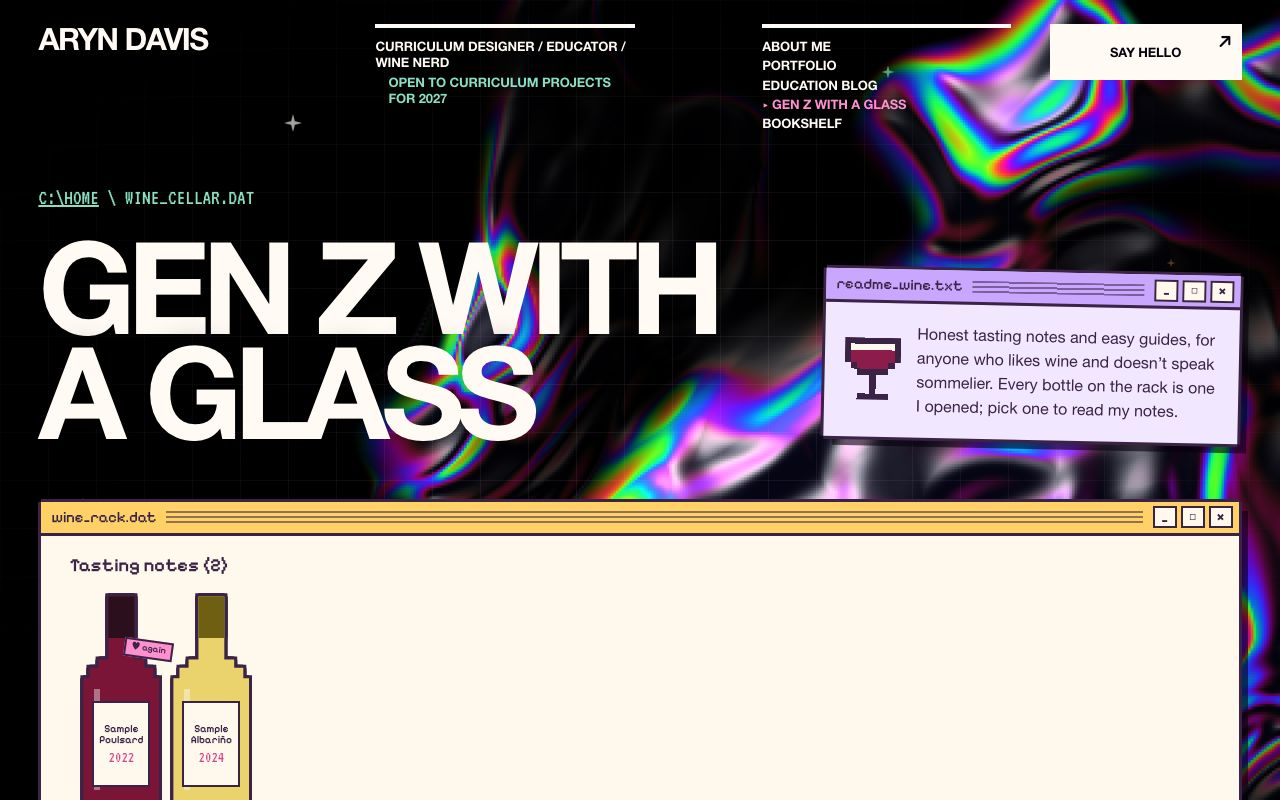
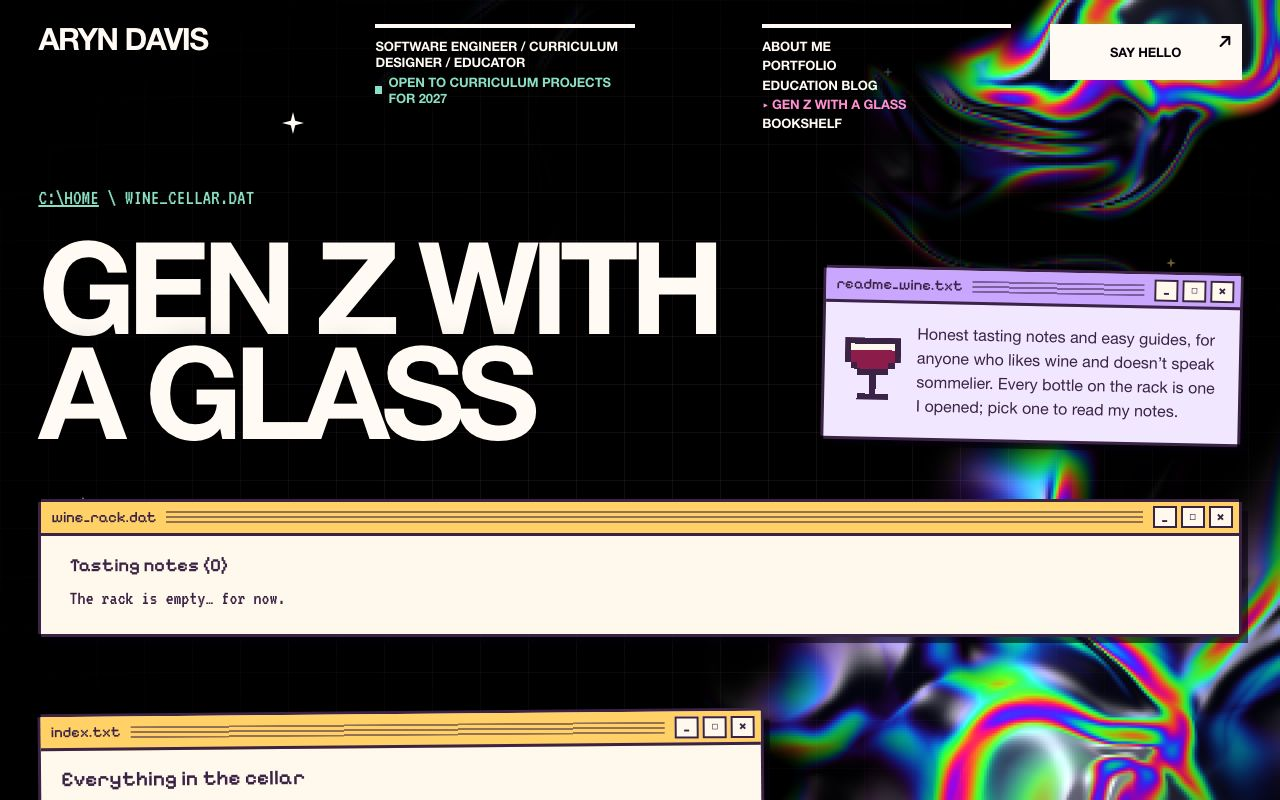
Remove the sample wine posts and sample read/want books
- Gen Z With A Glass starts empty ('The rack is empty… for now'); the
  home folder says 'Nothing here yet' until the first post.
- The bookshelf keeps only what I'm currently reading.
- README: drop the sample tasting-card screenshot and placeholder note;
  retake home, wine and bookshelf screenshots.

diff --git a/src/content/wine.ts b/src/content/wine.ts
@@ -19,64 +19,14 @@ import texted from './wine.texts.json'
 //              pairedWith (what you ate), suggestedPairings (your ideas; made for you if both are left out)
 //   The post:  moment, look, nose, palate, finish, thoughts, and title/summary/tags to override the defaults.
 //
-// Sample notes. Replace these with your own.
-export const handNotes: TastingNote[] = [
-  {
-    wine: 'Sample Poulsard',
-    grape: 'Poulsard',
-    vintage: 2022,
-    date: '2026-09-29',
-    title: 'The bottle that made the whole table lean in',
-    region: 'Jura, France',
-    price: '$$',
-    rating: 4,
-    buyAgain: 'yes',
-    verdict: 'Bright, a little wild, and impossible to stop sipping. Proof that light reds can steal the show.',
-    flavors: 'red currant, rose petal, cranberry, white pepper',
-    sweetness: 'dry',
-    body: 'light',
-    acidity: 'high',
-    tannin: 'low',
-    pairedWith: 'Roast chicken and a loud dinner table',
-    moment: 'A bright, slightly unruly Jura red and a reminder to trust your curiosity. This is a sample tasting note.',
-    look: 'pale ruby',
-    nose: 'red currant, rose petal',
-    palate: 'light, crunchy, a little wild',
-  },
-  {
-    wine: 'Sample Albariño',
-    grape: 'Albariño',
-    vintage: 2024,
-    date: '2026-03-08',
-    title: 'Weeknight white under $20',
-    region: 'Rías Baixas, Spain',
-    price: '$$',
-    rating: 3,
-    buyAgain: 'maybe',
-    verdict: 'Crisp, salty and easy to love for the price.',
-    flavors: 'lemon, green apple, sea salt',
-    sweetness: 'dry',
-    body: 'medium-light',
-    acidity: 'high',
-    moment: 'A crisp, salty white that over-delivers with takeout. This is a sample tasting note.',
-  },
-]
+// Tasting notes written here. (Notes can also be texted in; see textNotes below.)
+export const handNotes: TastingNote[] = []
 
 // GUIDES are recipe cards: explainers, regions, how-tos. Write the body like the other blogs (see types.ts).
-export const guides: WinePost[] = [
-  {
-    kind: 'guide',
-    slug: 'a-beginners-map-of-sparkling-wine',
-    title: 'A beginner’s map of sparkling wine',
-    date: '2026-06-14',
-    summary: 'Champagne, crémant, cava, pét-nat: what is actually different, explained simply.',
-    tags: ['guide', 'sparkling'],
-    body: [
-      { type: 'p', text: 'This is a sample guide post.' },
-      { type: 'list', items: ['Traditional method', 'Tank method', 'Ancestral method'] },
-    ],
-  },
-]
+// Example:
+//   { kind: 'guide', slug: 'sparkling-wine-map', title: 'A beginner’s map of sparkling wine', date: '2026-11-01',
+//     summary: 'Champagne, crémant, cava, pét-nat: what’s actually different.', tags: ['guide'], body: [{ type: 'p', text: '…' }] },
+export const guides: WinePost[] = []
 
 // Notes texted in (netlify/functions/sms.ts adds them to wine.texts.json). Anything malformed is skipped.
 export const textNotes: TastingNote[] = (texted as unknown[]).filter(isTextNote)

diff --git a/src/content/books.ts b/src/content/books.ts
@@ -1,4 +1,3 @@
-// The 'read' and 'want' books below are still samples. Replace them with your own shelf.
 // status: 'reading' shows face-out on the top shelf; 'read' and 'want' show as spines.
 
 export type BookStatus = 'reading' | 'read' | 'want'
@@ -32,57 +31,6 @@ export const books: Book[] = [
     author: 'Sloane Crosley',
     status: 'reading',
     color: 'lilac',
-  },
-  {
-    slug: 'understanding-by-design',
-    title: 'Understanding by Design',
-    author: 'Grant Wiggins & Jay McTighe',
-    status: 'read',
-    color: 'blue',
-    date: '2026-08-14',
-    rating: 5,
-    note: 'Sample entry. Short thoughts show up in the pop-up.',
-  },
-  {
-    slug: 'pedagogy-of-the-oppressed',
-    title: 'Pedagogy of the Oppressed',
-    author: 'Paulo Freire',
-    status: 'read',
-    color: 'wine',
-    date: '2026-06-02',
-    rating: 4,
-  },
-  {
-    slug: 'wine-folly-magnum-edition',
-    title: 'Wine Folly: Magnum Edition',
-    author: 'Madeline Puckette & Justin Hammack',
-    status: 'read',
-    color: 'mint',
-    date: '2026-04-20',
-    rating: 4,
-  },
-  {
-    slug: 'braiding-sweetgrass',
-    title: 'Braiding Sweetgrass',
-    author: 'Robin Wall Kimmerer',
-    status: 'read',
-    color: 'lilac',
-    date: '2026-02-11',
-    rating: 5,
-  },
-  {
-    slug: 'range',
-    title: 'Range',
-    author: 'David Epstein',
-    status: 'want',
-    color: 'cream',
-  },
-  {
-    slug: 'the-sommeliers-atlas-of-taste',
-    title: "The Sommelier's Atlas of Taste",
-    author: 'Rajat Parr & Jordan Mackay',
-    status: 'want',
-    color: 'pink',
   },
 ]
 

diff --git a/src/pages/Home.tsx b/src/pages/Home.tsx
@@ -114,7 +114,7 @@ export default function Home() {
                       <p>{sections[key].blurb}</p>
                     </div>
                   </div>
-                  <p className="folder-recent">Recent:</p>
+                  <p className="folder-recent">{entries.length ? 'Recent:' : 'Nothing here yet. Check back soon!'}</p>
                   <ul className="folder-list">
                     {entries.map((entry) => (
                       <li key={entry.slug}>

diff --git a/README.md b/README.md
@@ -13,8 +13,8 @@ Taken from the production build at 1280×800. Update them whenever a page's look
 | ![Home page](docs/screenshots/home.jpg) | ![Portfolio](docs/screenshots/portfolio.jpg) |
 | **Education blog** | **Gen Z With A Glass (wine blog)** |
 | ![Education blog](docs/screenshots/education.jpg) | ![Gen Z With A Glass wine rack](docs/screenshots/wine.jpg) |
-| **Tasting card** | **Bookshelf** |
-| ![A tasting note with its tasting card](docs/screenshots/wine-tasting-card.jpg) | ![Bookshelf](docs/screenshots/bookshelf.jpg) |
+| **Bookshelf** | |
+| ![Bookshelf](docs/screenshots/bookshelf.jpg) | |
 
 ## Run locally
 
@@ -83,7 +83,6 @@ The education blog mirrors [arynlynn.substack.com](https://arynlynn.substack.com
 - Paid-only posts, podcasts and threads aren't synced.
 - `npm run test:substack` checks the HTML conversion.
 
-All sample content is placeholder text; replace it before publishing.
 
 ### Post tasting notes by text
 
